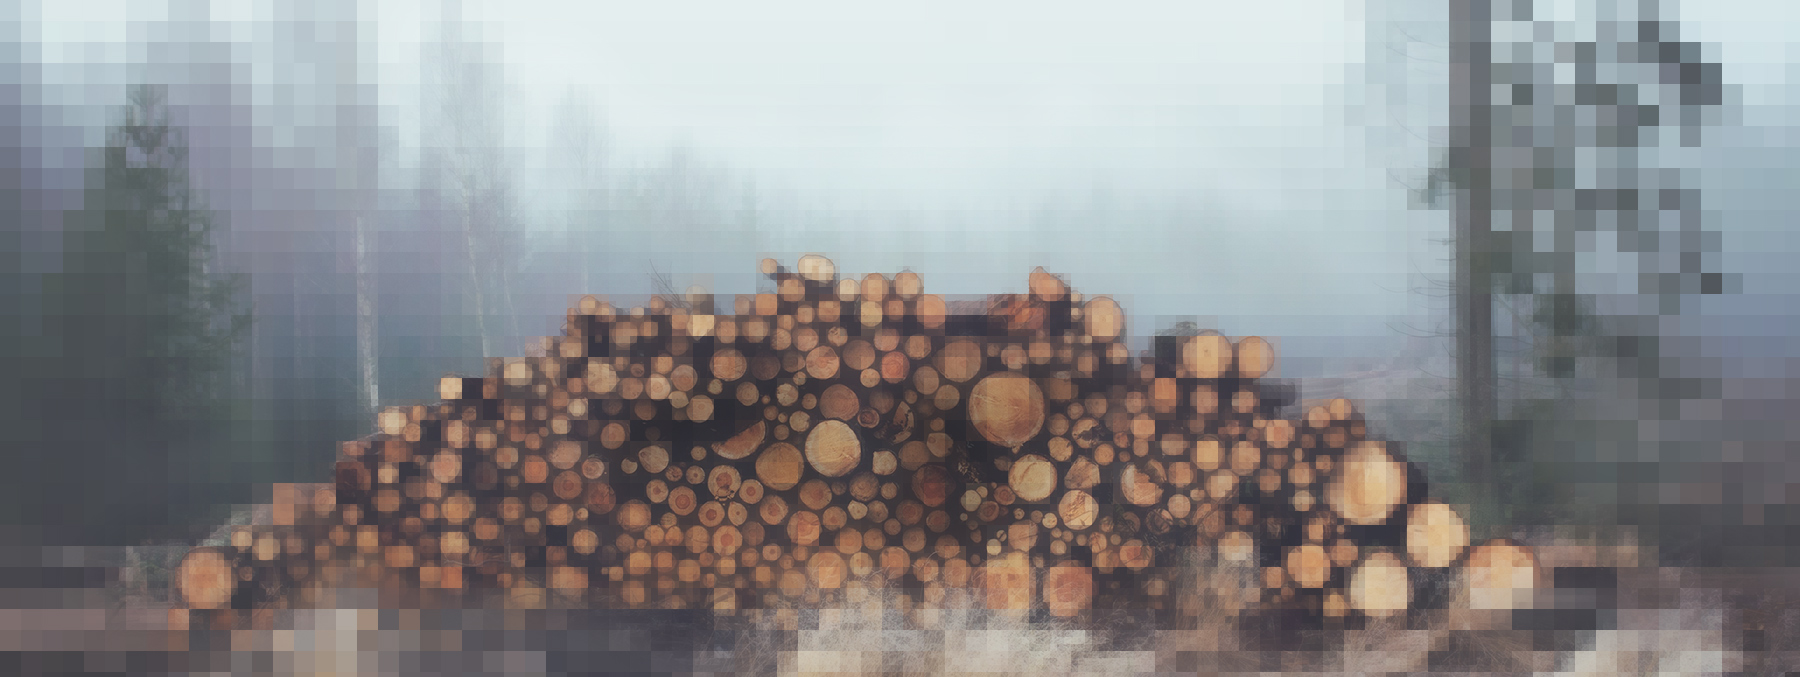
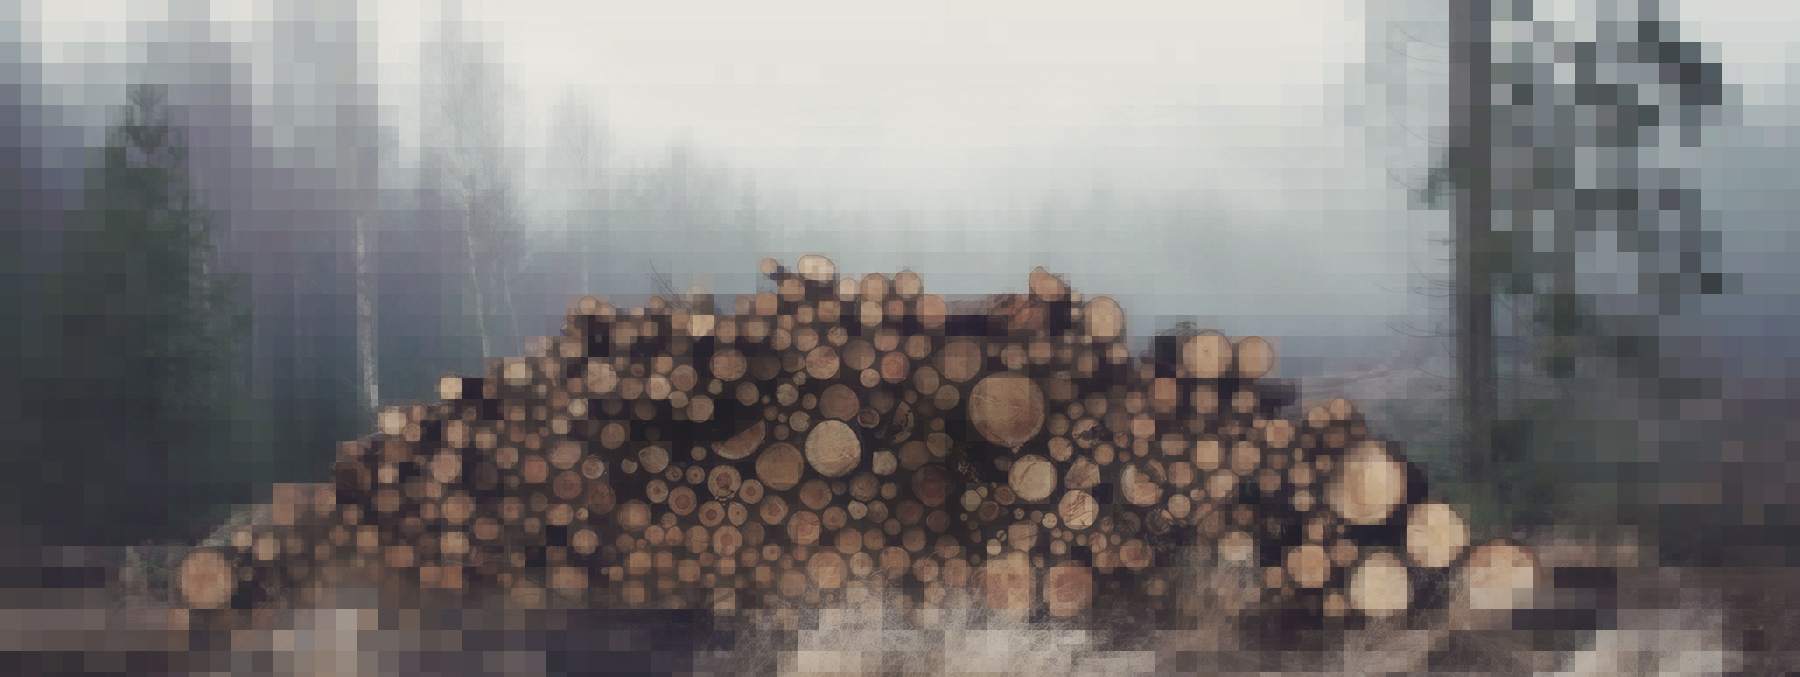
compress images; typos and corrections

diff --git a/app/views/logs-view.html b/app/views/logs-view.html
@@ -11,7 +11,7 @@
       <h4>The Best Tutorials</h4>
       <p>The first thing to know is that the author's tutorials are the best ones. Mike Bostock created d3 (with Jeff Heer and Vadim Ogievetsky).  He maintains the library, and often answers questions and issues reported on StackOverflow.  He wrote the first 9 tutorials on the d3 site, introducing the core concepts.  Cut your teeth on these.  Why?  Not because they are the official ones, but because in the case of D3 there seems to be an unusually large proportion of bad third-party tutorials out there.</p>
       <h4>The Data Join Process</h4>
-      <p>If you are a developer and can walker the DOM in your sleep, your first lesson is in D3 is to unlearn the patterns you’re probably used to when it comes to selectors and manipulators. The central process of Data Driven Documents is the data join, which binds an incoming set of data to a target selection in the DOM.</p>
+      <p>If you are a developer and can walk the DOM in your sleep, your first lesson in D3 is to unlearn the patterns you’re probably used to when it comes to selectors and manipulators. The central process of Data Driven Documents is the data join, which binds an incoming set of data to a target selection in the DOM.</p>
 
       <pre>
         <code class="language-javascript">
@@ -99,7 +99,9 @@
       <a>Reviews <span data-ng-show="!review">...</span></a>
     </h2>
     <article data-ng-show="review">
-      
+      <h3>Sextant Analytics</h3>
+      <p>A review (or post-game, if you will) of my final project at CodeFellows.</p>
+      <p>Coming soon!</p>
     </article>
   </section>
 </main>

diff --git a/app/views/portfolio-view.html b/app/views/portfolio-view.html
@@ -4,17 +4,17 @@
       <h2>Portfolio</h2>
       <h3>MEAN Stack</h3>
       <ul>
-        <li>Sextant</li>
-        <li>Along the Way</li>
-        <li>Purlieu Hall</li>
+        <li><a href="http://www.sextant.io">Sextant Analytics</a></li>
+        <li><a href="https://github.com/FindAllTheThings/AlongTheWay">Along the Way</a></li>
+        <li><a href="http://www.purlieuhall.com">Purlieu Hall</a></li>
       </ul>
       <h3>LAMP Stack</h3>
       <ul>
-        <li>Ranier Mountaineering</li>
-        <li>Whittaker Mountaineering</li>
-        <li>Regatta Network: ILCA</li>
-        <li>We Cycle</li>
-        <li>Michael Stusser</li>
+        <li><a href="http://www.rmiguides.com">Ranier Mountaineering</a></li>
+        <li><a href="www.whittakermountaineering.com">Whittaker Mountaineering</a></li>
+        <li><a href="http://www.regattanetwork.com">Regatta Network: ILCA</a></li>
+        <li><a href="https://www.we-cycle.org">We Cycle</a></li>
+        <li><a href="http://michaelstusser.com">Michael Stusser</a></li>
       </ul>
     </article>
   </section>

diff --git a/app/css/styles.css b/app/css/styles.css
@@ -174,7 +174,7 @@ main h2 a {
   color: #000; }
 
 main h2 a:hover {
-  color: #111; }
+  color: #222; }
 
 main article {
   width: 48em;
@@ -233,13 +233,17 @@ section {
 header {
   position: relative;
   padding: 9em 0 0 0;
-  background-image: url(/img/pixelated-background.jpg);
+  background-image: url(/img/treelight.jpg);
   background-size: cover;
   background-position: center 43%; }
 
 header.logs {
-  background-image: url(/img/logs4.jpg);
+  background-image: url(/img/logs.jpg);
   background-position: center 50%; }
+
+header.portfolio {
+  background-image: url(/img/treelight-vibrant.jpg);
+  background-position: center 43%; }
 
 nav {
   display: block;
@@ -330,5 +334,8 @@ header #scrim {
   right: 0;
   background: rgba(30, 28, 29, 0.4);
   height: 36px; }
+
+footer {
+  min-height: 300px; }
 
 /*# sourceMappingURL=styles.css.map */

diff --git a/app/app.js b/app/app.js
@@ -19,6 +19,8 @@ var redcedar = angular.module('redcedar', [
 require('./js/controllers/main-controller')(redcedar);
 require('./js/controllers/home-controller')(redcedar);
 require('./js/controllers/logs-controller')(redcedar);
+require('./js/controllers/portfolio-controller')(redcedar);
+require('./js/controllers/etc-controller')(redcedar);
 
 // Directives
 
@@ -36,9 +38,11 @@ redcedar.config([ '$routeProvider', function($routeProvider) {
       })
       .when('/portfolio', {
         templateUrl: 'views/portfolio-view.html',
+        controller: 'portfolioController'
       })
       .when('/etc', {
         templateUrl: 'views/etc-view.html',
+        controller: 'etcController'
       })
       .otherwise({
         redirectTo: '/'

diff --git a/app/css/scss/header.scss b/app/css/scss/header.scss
@@ -13,13 +13,17 @@ header, main, footer{
   header{
     position:relative;
     padding:9em 0 0 0;
-    background-image:url(/img/pixelated-background.jpg);
+    background-image:url(/img/treelight.jpg);
     background-size:cover;
     background-position:center 43%;
   } 
     header.logs{
-      background-image:url(/img/logs4.jpg);
+      background-image:url(/img/logs.jpg);
       background-position:center 50%;
+    }
+    header.portfolio{
+      background-image:url(/img/treelight-vibrant.jpg);
+      background-position:center 43%;
     }
     nav{
       display:block;

diff --git a/app/js/controllers/portfolio-controller.js b/app/js/controllers/portfolio-controller.js
@@ -1,0 +1,11 @@
+'use strict';
+
+module.exports = function(app) {
+  app.controller('portfolioController', [ '$scope', '$rootScope', 
+    function($scope, $rootScope) {
+      
+      $rootScope.page = 'portfolio';
+      
+    }
+  ]);
+};

diff --git a/app/js/controllers/etc-controller.js b/app/js/controllers/etc-controller.js
@@ -1,0 +1,11 @@
+'use strict';
+
+module.exports = function(app) {
+  app.controller('etcController', [ '$scope', '$rootScope', 
+    function($scope, $rootScope) {
+      
+      $rootScope.page = 'etc';
+      
+    }
+  ]);
+};

diff --git a/app/css/scss/styles.scss b/app/css/scss/styles.scss
@@ -3,3 +3,4 @@
 @import "global";
 @import "main";
 @import "header";
+@import "footer";
